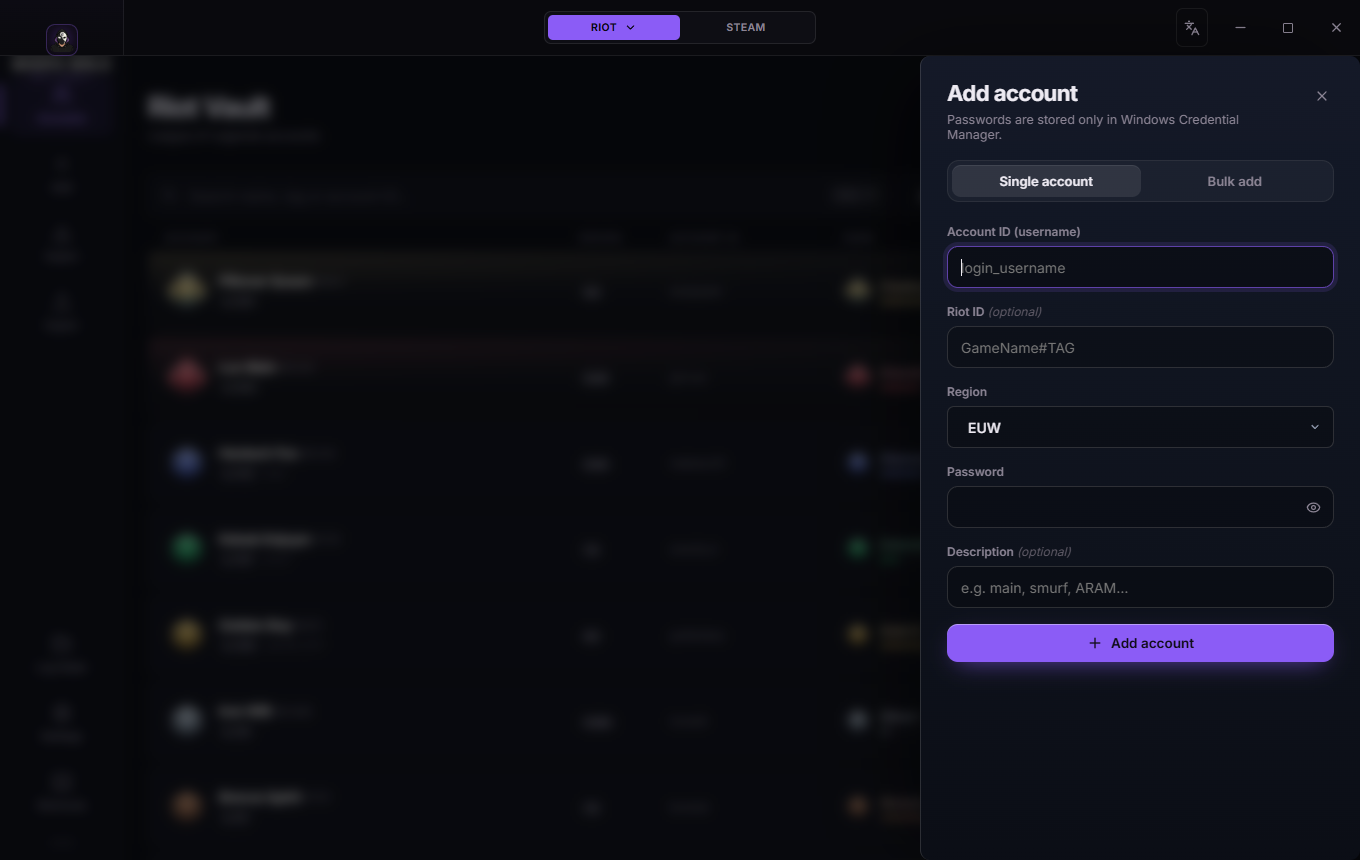
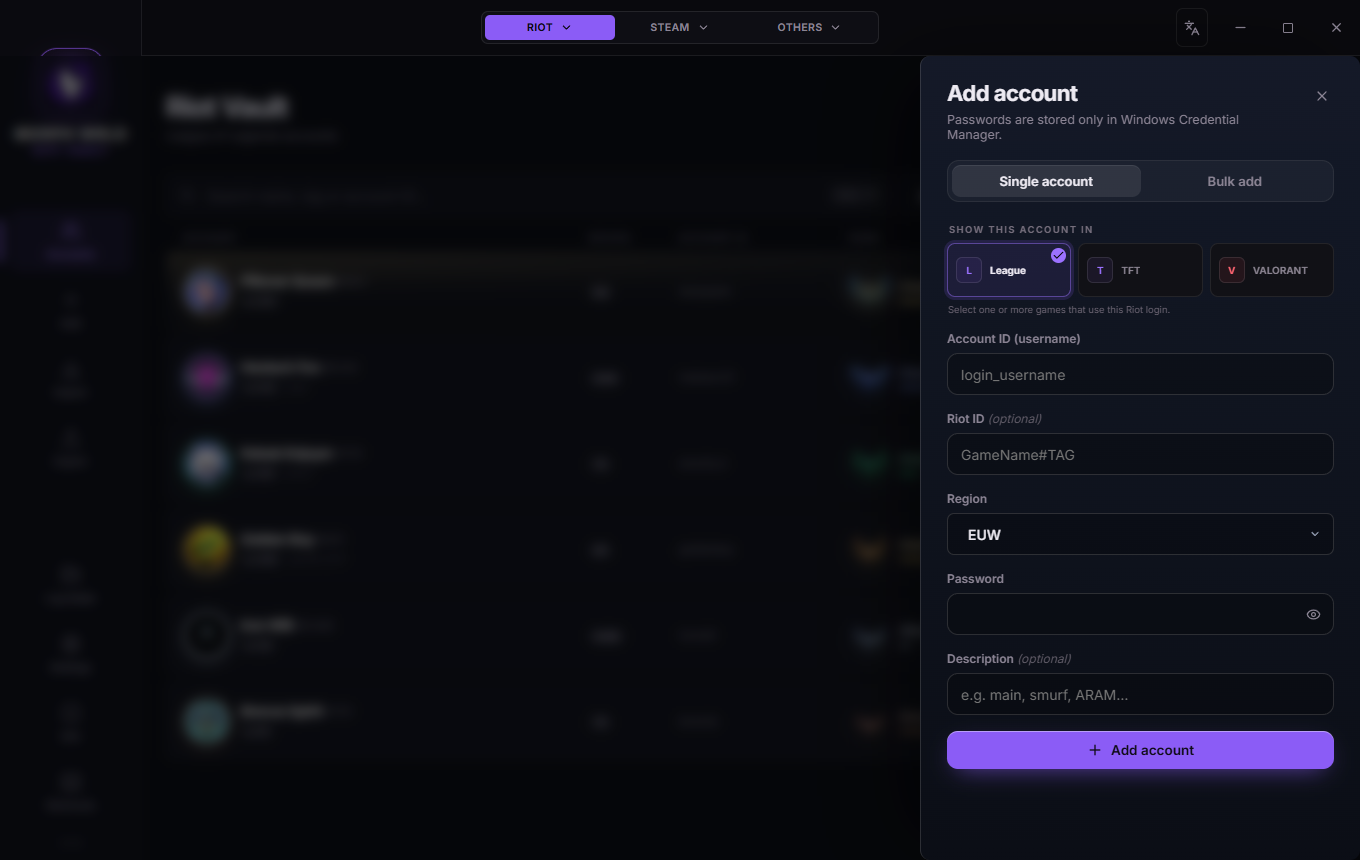
docs: refresh screenshots for latest interface

diff --git a/README.md b/README.md
@@ -38,7 +38,14 @@ One-click access, current Riot ranks, separate platform vaults, and passwords ke
     <td width="50%"><img src="docs/screenshots/valorant.png" alt="VALORANT account vault" /><br /><sub><b>VALORANT view:</b> launch the selected Riot account into VALORANT.</sub></td>
   </tr>
   <tr>
+    <td colspan="2"><img src="docs/screenshots/others-menu.png" alt="Other platform chooser" /><br /><sub><b>Platform chooser:</b> select Epic Games or EA app / Origin before changing vaults.</sub></td>
+  </tr>
+  <tr>
     <td colspan="2"><img src="docs/screenshots/steam.png" alt="Steam account vault" /><br /><sub><b>Steam Vault:</b> locally stored Steam accounts with one-click client switching.</sub></td>
+  </tr>
+  <tr>
+    <td width="50%"><img src="docs/screenshots/epic.png" alt="Epic Games account vault" /><br /><sub><b>Epic Games Vault:</b> local credentials with secure copy and launcher access.</sub></td>
+    <td width="50%"><img src="docs/screenshots/ea.png" alt="EA app and Origin account vault" /><br /><sub><b>EA app / Origin Vault:</b> a separate account list for EA identities.</sub></td>
   </tr>
   <tr>
     <td width="50%"><img src="docs/screenshots/login.gif" alt="Step-by-step login progress" /><br /><sub><b>Login, step by step:</b> opening the Riot Client, entering credentials, launching the game.</sub></td>
